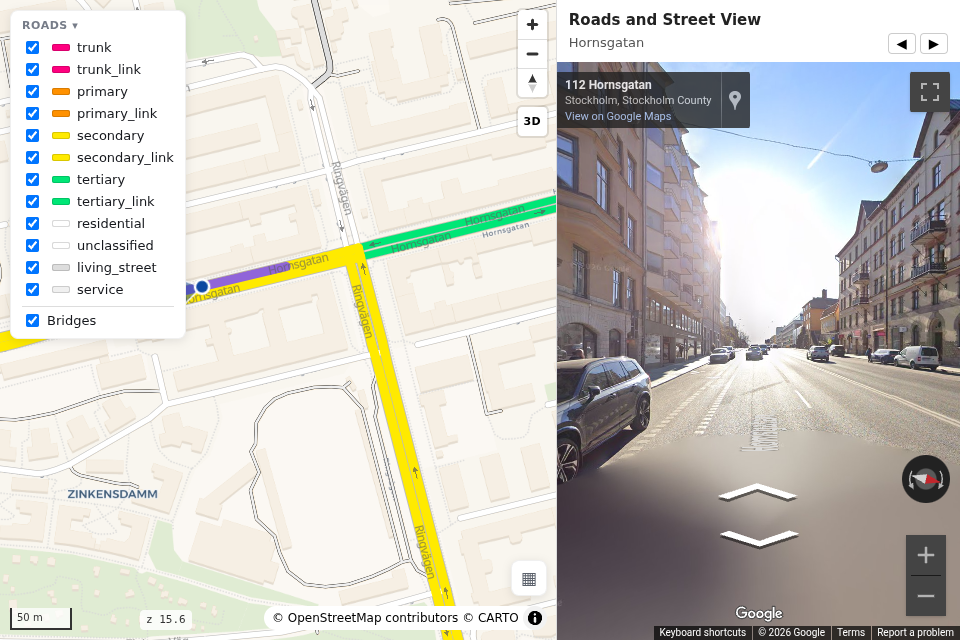
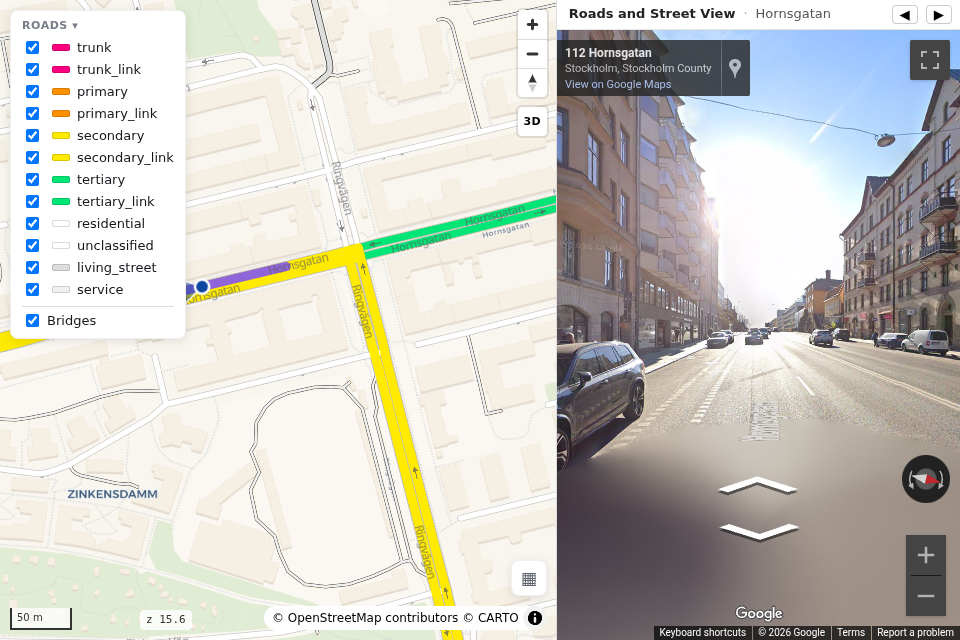
render_street_view(layout="vertical"): the map on top, Street View under it
CLI --layout vertical. The divider drags up and down, panel_width is the share of the height, the
map's controls and filter stay on the map. Docs: a vertical live demo beside the horizontal one,
a gallery shot, the parameters and CLI lists; the docs demo and gallery show the one-row header.

Changed region(s): [[0.5625, 0.0, 1.0, 0.75], [0.75, 0.8125, 0.8438, 0.875], [0.75, 0.75, 0.8438, 0.7812]]

diff --git a/src/roadstyle/templates/street_view.html b/src/roadstyle/templates/street_view.html
@@ -16,7 +16,7 @@
   .sv-step { border: 1px solid #ccc; background: #fff; border-radius: 4px; padding: 1px 7px; cursor: pointer; }
   .sv-step:disabled { opacity: .35; cursor: default; }
   #sv [hidden] { display: none !important; }
-  /* the divider: drag it to share the width between the map and Street View */
+  /* the divider: drag it to share the width (or, vertical, the height) between map and Street View */
   #sv-drag { position: fixed; top: 0; bottom: 0; right: var(--sv-w); width: 10px; margin-right: -5px;
              cursor: col-resize; z-index: 5; touch-action: none; }
   #sv-drag::after { content: ""; position: absolute; top: 50%; left: 3px; width: 4px; height: 40px;
@@ -29,18 +29,32 @@
               justify-content: center; gap: 8px; color: #777; background: #f4f4f4;
               padding: 20px; text-align: center; }
   #sv-empty code { background: #e6e6e6; padding: 2px 5px; border-radius: 3px; color: #333; }
+  /* layout="vertical": the map on top, Street View under it, the divider between them */
+  body.sv-vertical { --rs-side: 0px; }
+  body.sv-vertical #map { right: 0; bottom: var(--sv-w); }
+  body.sv-vertical .bm-icon { bottom: calc(var(--sv-w) + 44px); }
+  body.sv-vertical .bm-menu { bottom: calc(var(--sv-w) + 84px); }
+  body.sv-vertical .rs-zoom { bottom: calc(var(--sv-w) + 10px); }
+  body.sv-vertical .rs-tl { max-height: calc(100% - var(--sv-w) - 20px); }  /* the filter stays on the map */
+  body.sv-vertical #sv { top: auto; left: 0; width: auto; height: var(--sv-w);
+                         border-left: 0; border-top: 1px solid #ddd; }
+  body.sv-vertical #sv-drag { top: auto; left: 0; right: 0; bottom: var(--sv-w); width: auto;
+                              height: 10px; margin: 0 0 -5px 0; cursor: row-resize; }
+  body.sv-vertical #sv-drag::after { top: 3px; left: 50%; width: 40px; height: 4px; margin: 0 0 0 -20px; }
+  body.sv-vertical.sv-dragging { cursor: row-resize; }
   @media (max-width: 700px) {          /* phones: Street View under the map, not beside it */
     #map { right: 0; bottom: 45%; }
     body { --rs-side: 0px; }
     .bm-icon { bottom: calc(45% + 44px); }
     .bm-menu { bottom: calc(45% + 84px); }
     .rs-zoom { bottom: calc(45% + 10px); }
+    .rs-tl { max-height: calc(55% - 20px); }
     #sv { top: 55%; width: 100%; border-left: 0; border-top: 1px solid #ddd; }
     #sv-drag { display: none; }
   }
 </style>
 <div id="sv-drag" title="Drag to resize"></div>
-<div id="sv">
+<div id="sv" data-layout="horizontal">
   <div id="sv-bar"><h2>Roads and Street View</h2><span id="sv-road">Click a road to see it in Street View.</span>
     <button type="button" class="sv-step" data-step="-15" title="Back 15 m along the road" disabled>&#9664;</button>
     <button type="button" class="sv-step" data-step="15" title="Forward 15 m along the road" disabled>&#9654;</button></div>
@@ -55,6 +69,8 @@
   //   "https://www.google.com/maps/embed/v1/streetview?key=KEY&location=" + lat + "," + lng + "&heading=" + h
   const embed = (lat, lng, h) =>
     "https://www.google.com/maps/embed?pb=!6m7!1m6!2m2!1d" + lat + "!2d" + lng + "!3f" + h + "!4f0!5f1";
+  const vertical = document.getElementById("sv").dataset.layout === "vertical";
+  if (vertical) document.body.classList.add("sv-vertical");
   const road = document.getElementById("sv-road"), frame = document.getElementById("sv-frame"),
         empty = document.getElementById("sv-empty");
   // Google's embed stays grey in a page opened from disk (file://): say how to serve it instead
@@ -101,7 +117,7 @@
 
   // the divider (resizable=False removes it): the panel width follows the pointer, 20%..80% of
   // the window, and is remembered in this browser
-  const KEY = "rs-street-view-width", drag = document.getElementById("sv-drag");
+  const KEY = "rs-street-view-width" + (vertical ? "-v" : ""), drag = document.getElementById("sv-drag");
   if (drag) {
   const setW = pct => {
     pct = Math.min(80, Math.max(20, pct));
@@ -112,7 +128,8 @@
     drag.setPointerCapture(e.pointerId); document.body.classList.add("sv-dragging");
   });
   drag.addEventListener("pointermove", e => {
-    if (drag.hasPointerCapture(e.pointerId)) setW((1 - e.clientX / window.innerWidth) * 100);
+    if (drag.hasPointerCapture(e.pointerId))
+      setW((1 - (vertical ? e.clientY / window.innerHeight : e.clientX / window.innerWidth)) * 100);
   });
   drag.addEventListener("pointerup", e => {
     drag.releasePointerCapture(e.pointerId); document.body.classList.remove("sv-dragging");

diff --git a/src/roadstyle/pages.py b/src/roadstyle/pages.py
@@ -74,21 +74,28 @@ def render_report(gdf, **kw):
                                filter_control=False, road_popup=False), **kw)
 
 
-def render_street_view(gdf, *, panel_width: float = 42, resizable: bool = True, **kw):
+def render_street_view(gdf, *, panel_width: float = 42, resizable: bool = True,
+                       layout: str = "horizontal", **kw):
     """A self-contained **map + Google Street View** page: the styled map on the left, Street View
     on the right (under the map on a phone). Clicking a road shows Street View at that point,
     looking the way the clicked edge runs, so a two-way road's two edges look opposite ways. No
     new window and no API key (it embeds Google's "Share > Embed a map" URL form).
 
-    ``panel_width`` is Street View's share of the window width in percent (20-80).
+    ``layout="horizontal"`` puts Street View beside the map (right), ``"vertical"`` under it.
+    ``panel_width`` is Street View's share of the window in percent (20-80): of its width, or of
+    its height when vertical.
     ``resizable=True`` adds a divider the viewer can drag to change it (their choice is remembered
     in their browser); ``False`` fixes the width. Any :func:`render_edges` keyword passes through.
     Returns a :class:`WebMap`; ``.save("street_view.html")`` writes the page."""
+    if layout not in ("horizontal", "vertical"):
+        raise ValueError(f'layout must be "horizontal" or "vertical", got {layout!r}')
     if not 20 <= panel_width <= 80:
         raise ValueError(f"panel_width must be 20-80 (percent of the window), got {panel_width}")
 
     def edit(frag):
         frag = frag.replace("--sv-w: 42%;", f"--sv-w: {panel_width:g}%;", 1)
+        if layout == "vertical":
+            frag = frag.replace('<div id="sv" data-layout="horizontal">', '<div id="sv" data-layout="vertical">', 1)
         if not resizable:
             frag = frag.replace('<div id="sv-drag" title="Drag to resize"></div>\n', "", 1)
         return frag

diff --git a/src/roadstyle/cli.py b/src/roadstyle/cli.py
@@ -83,6 +83,9 @@ def _build_parser() -> argparse.ArgumentParser:
                           "(default 42).")
     web.add_argument("--no-resize", action="store_true",
                      help="--page street-view: fixed width, no draggable divider.")
+    web.add_argument("--layout", choices=["horizontal", "vertical"],
+                     help="--page street-view: Street View beside the map (horizontal, default) "
+                          "or under it (vertical).")
     web.add_argument("--view-3d", action="store_true",
                      help="3D view: tilted camera + extruded, ramped bridge decks.")
     web.add_argument("--pitch", type=float, help="starting camera tilt in degrees (0-85).")
@@ -195,6 +198,8 @@ def main(argv: list[str] | None = None) -> int:
                     web_kw["resizable"] = not args.no_resize
                     if args.panel_width is not None:
                         web_kw["panel_width"] = args.panel_width
+                    if args.layout:
+                        web_kw["layout"] = args.layout
                 getattr(pages, _PAGES[args.page])(g, **style_kw, **web_kw).save(str(out_path))
             else:
                 render_edges(g, backend="web", **style_kw, **web_kw).save(str(out_path))

diff --git a/docs/build_gallery.py b/docs/build_gallery.py
@@ -126,6 +126,9 @@ def street_view_shots(edges) -> None:
                 SELECT + """rsSetStreetView(true);
         Object.assign(document.querySelector(".rs-svw").style,
                       {left: "400px", top: "250px", width: "500px", height: "330px"});""", 960, 640)
+    served_shot(rs.render_street_view(edges, resizable=False, layout="vertical").html,
+                OUT / "street_view_vertical.png", SELECT, 960, 640,
+                camera="map.jumpTo({center: [18.0495, 59.3169], zoom: 15.6});")
     served_shot(rs.render_street_view(edges, resizable=False).html, OUT / "street_view_side.png",
                 SELECT, 960, 640, camera="map.jumpTo({center: [18.0495, 59.3169], zoom: 15.6});")
 

diff --git a/tests/test_pages.py b/tests/test_pages.py
@@ -69,3 +69,12 @@ def test_street_view_width_and_divider_are_options():
     assert '<div id="sv-drag"' not in h and "--sv-w: 60%;" in h   # fixed at 60%
     with pytest.raises(ValueError):
         rs.render_street_view(_edges(), panel_width=95)
+
+
+def test_street_view_vertical_layout():
+    import pytest
+    h = rs.render_street_view(_edges(), layout="vertical").html
+    assert '<div id="sv" data-layout="vertical">' in h and "body.sv-vertical #sv" in h
+    assert '<div id="sv" data-layout="horizontal">' in rs.render_street_view(_edges()).html
+    with pytest.raises(ValueError):
+        rs.render_street_view(_edges(), layout="diagonal")

diff --git a/docs/build_maps.py b/docs/build_maps.py
@@ -81,6 +81,9 @@ OPEN_ON = """<script>(function () {
 })();</script>"""
 html = rs.render_street_view(g, name="Roads and Street View").html
 (OUT / "street_view.html").write_text(html.replace("</body>", OPEN_ON + "</body>", 1), encoding="utf-8")
+html = rs.render_street_view(g, name="Roads and Street View", layout="vertical").html
+(OUT / "street_view_vertical.html").write_text(html.replace("</body>", OPEN_ON + "</body>", 1),
+                                               encoding="utf-8")
 
 for f in sorted(OUT.glob("*.html")):
     print(f"wrote {f.relative_to(REPO)} ({f.stat().st_size // 1024} KB)")

diff --git a/tests/test_cli.py b/tests/test_cli.py
@@ -42,6 +42,8 @@ def test_street_view_page_flags(tmp_path):
                  "--panel-width", "55", "--no-resize"]) == 0
     h = out.read_text()
     assert "--sv-w: 55%;" in h and '<div id="sv-drag"' not in h
+    assert main([str(SAMPLE), "-o", str(out), "--page", "street-view", "--layout", "vertical"]) == 0
+    assert 'data-layout="vertical"' in out.read_text()
 
 
 def test_page_needs_web_format(tmp_path):

diff --git a/docs/web-backend.md b/docs/web-backend.md
@@ -185,23 +185,35 @@ document.addEventListener("rs:select", e => {
 #### Map and Street View side by side
 
 One call builds a page with the map on one side and Street View on the other. Click a road and
-Street View shows it, looking the way the clicked edge runs; drag the divider to share the width:
+Street View shows it, looking the way the clicked edge runs; drag the divider to share the space.
+Street View sits beside the map (`layout="horizontal"`, the default) or under it
+(`layout="vertical"`):
 
 ```python
 rs.render_street_view(edges).save("street_view.html")
+rs.render_street_view(edges, layout="vertical")                 # the map on top, Street View under it
 rs.render_street_view(edges, panel_width=60, resizable=False)   # fixed: Street View 60% wide
 ```
 
 ```bash
 roadstyle edges.gpkg --page street-view -o street_view.html
+roadstyle edges.gpkg --page street-view --layout vertical
 roadstyle edges.gpkg --page street-view --panel-width 60 --no-resize
 ```
+
+Horizontal:
 
 <iframe src="../maps/street_view.html" loading="lazy" title="The map and Google Street View side by side"
         style="width:100%;height:520px;border:0;border-radius:10px;box-shadow:0 2px 12px rgba(0,0,0,.18)"></iframe>
 
+Vertical:
+
+<iframe src="../maps/street_view_vertical.html" loading="lazy" title="The map with Google Street View under it"
+        style="width:100%;height:640px;border:0;border-radius:10px;box-shadow:0 2px 12px rgba(0,0,0,.18)"></iframe>
+
 The map marks the Street View spot and ◀ ▶ step along the road, as in the window.
-`panel_width` is Street View's share of the width in percent (20-80, default 42). With
+`panel_width` is Street View's share of the width (vertical: the height) in percent (20-80,
+default 42). With
 `resizable=True` (the default) the viewer can drag the divider, and the page remembers their
 width in their browser. On a phone, Street View sits under the map. Every `render_edges` keyword
 passes through.

diff --git a/docs/parameters.md b/docs/parameters.md
@@ -20,7 +20,7 @@ Everything in `roadstyle.__all__`, as `import roadstyle as rs; rs.<name>`.
 | `render_edges(gdf, ...)` | `WebMap` / `folium.Map` / `lonboard.Map` | the main entry point — every keyword [below](#render_edges) |
 | `render_dashboard(gdf, **kw)` | `WebMap` | **dashboard** page: the map with built-in controls off + the bundled sidebar (query box, colour-by, class filter + legend, results table, read-out) |
 | `render_report(gdf, **kw)` | `WebMap` | **report** page: the map + a stats sidebar (KPI cards, colour-by legend, filter, search, selected-road read-out) |
-| `render_street_view(gdf, *, panel_width=42, resizable=True, **kw)` | `WebMap` | **map + Google Street View** page: click a road, Street View beside the map looks along it; a draggable divider unless `resizable=False` ([details](web-backend.md#map-and-street-view-side-by-side)) |
+| `render_street_view(gdf, *, panel_width=42, resizable=True, layout="horizontal", **kw)` | `WebMap` | **map + Google Street View** page: click a road, Street View beside the map (or under it: `layout="vertical"`) looks along it; a draggable divider unless `resizable=False` ([details](web-backend.md#map-and-street-view-side-by-side)) |
 | `sidebar_html(name)` | `str` | the bundled sidebar fragment (`"dashboard"` / `"report"` / `"street_view"`) — reshape it and re-inject before `</body>` |
 | `snapshot(map_or_html, out_path, *, center, zoom, pitch, bearing, width=1200, height=800, scale=1, settle=2.5, timeout=40)` | path | static PNG via headless Chromium (needs `playwright`) |
 

diff --git a/skills/roadstyle/SKILL.md b/skills/roadstyle/SKILL.md
@@ -55,7 +55,8 @@ m.save("map.html")                        # m.html is the page as a string
   `road_popup="panel"` (docked read-out instead of a popup), `arrows=`, `labels=`.
 - Ready-made pages: `rs.render_dashboard(edges, ...)` (query sidebar) and
   `rs.render_report(edges, ...)` (stats sidebar) and `rs.render_street_view(edges, ...)` (Google
-  Street View beside the map, following the clicked road; `panel_width=42`, `resizable=True`)
+  Street View beside the map, or under it with `layout="vertical"`, following the clicked road;
+  `panel_width=42`, `resizable=True`)
   take the same keywords. CLI: `roadstyle edges.gpkg --page street-view`. Every map has a Street
   View button by default (`street_view="window"`): a floating, draggable, resizable window that
   follows the clicked road (`rsSetStreetView(on)`), a map marker (dot + cone) where it stands,

diff --git a/docs/index.md b/docs/index.md
@@ -94,7 +94,7 @@ roadstyle studio --server.port 8502                                  # extra arg
 `-f/--format` is one of `web` (self-contained MapLibre map, the default), `folium`, `rsjs`
 (roadstyle.js page), `spec`, `geojson`. Every other flag mirrors a `render_edges` keyword; the `web`
 map also takes `--no-arrows` / `--no-labels` / `--no-filter` / `--no-basemap-switcher`, and
-`--page dashboard | report | street-view` for a ready-made page (`--panel-width`, `--no-resize` for
+`--page dashboard | report | street-view` for a ready-made page (`--layout`, `--panel-width`, `--no-resize` for
 the street-view one). See
 `roadstyle --help`. `roadstyle studio` needs the `studio` extra and forwards extra arguments to
 `streamlit run`.

diff --git a/docs/gallery.md b/docs/gallery.md
@@ -104,6 +104,14 @@ rs.render_street_view(edges)               # CLI: roadstyle edges.gpkg --page st
 
 ![map and street view side by side](img/gallery/street_view_side.png)
 
+Or with Street View under the map:
+
+```python
+rs.render_street_view(edges, layout="vertical")   # CLI: --page street-view --layout vertical
+```
+
+![map with street view under it](img/gallery/street_view_vertical.png)
+
 ## The sidebar dashboard (UI template)
 
 Every built-in control replaced by plain HTML driving the [JS API](web-backend.md#the-javascript-api-windowrs) —
